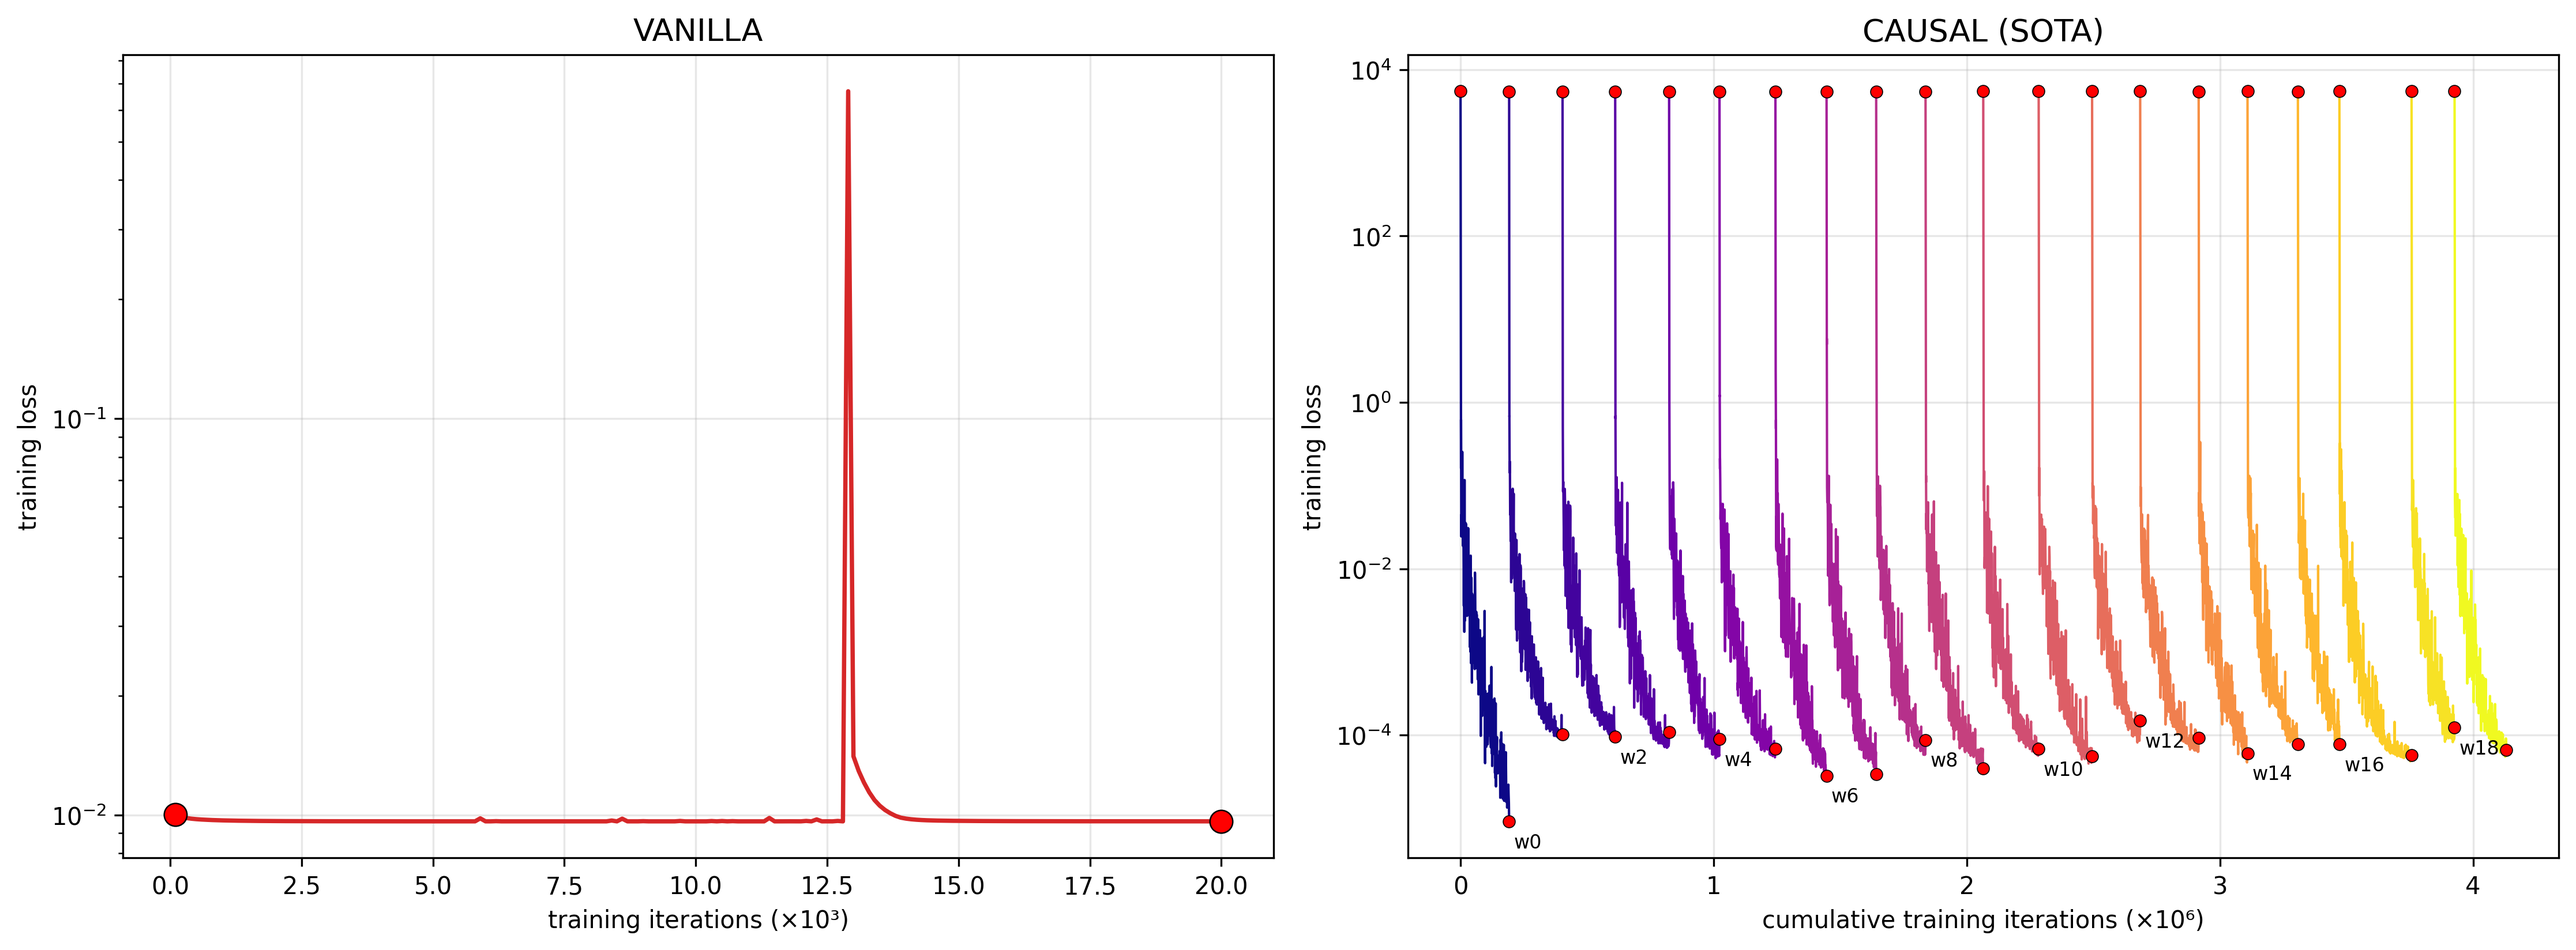
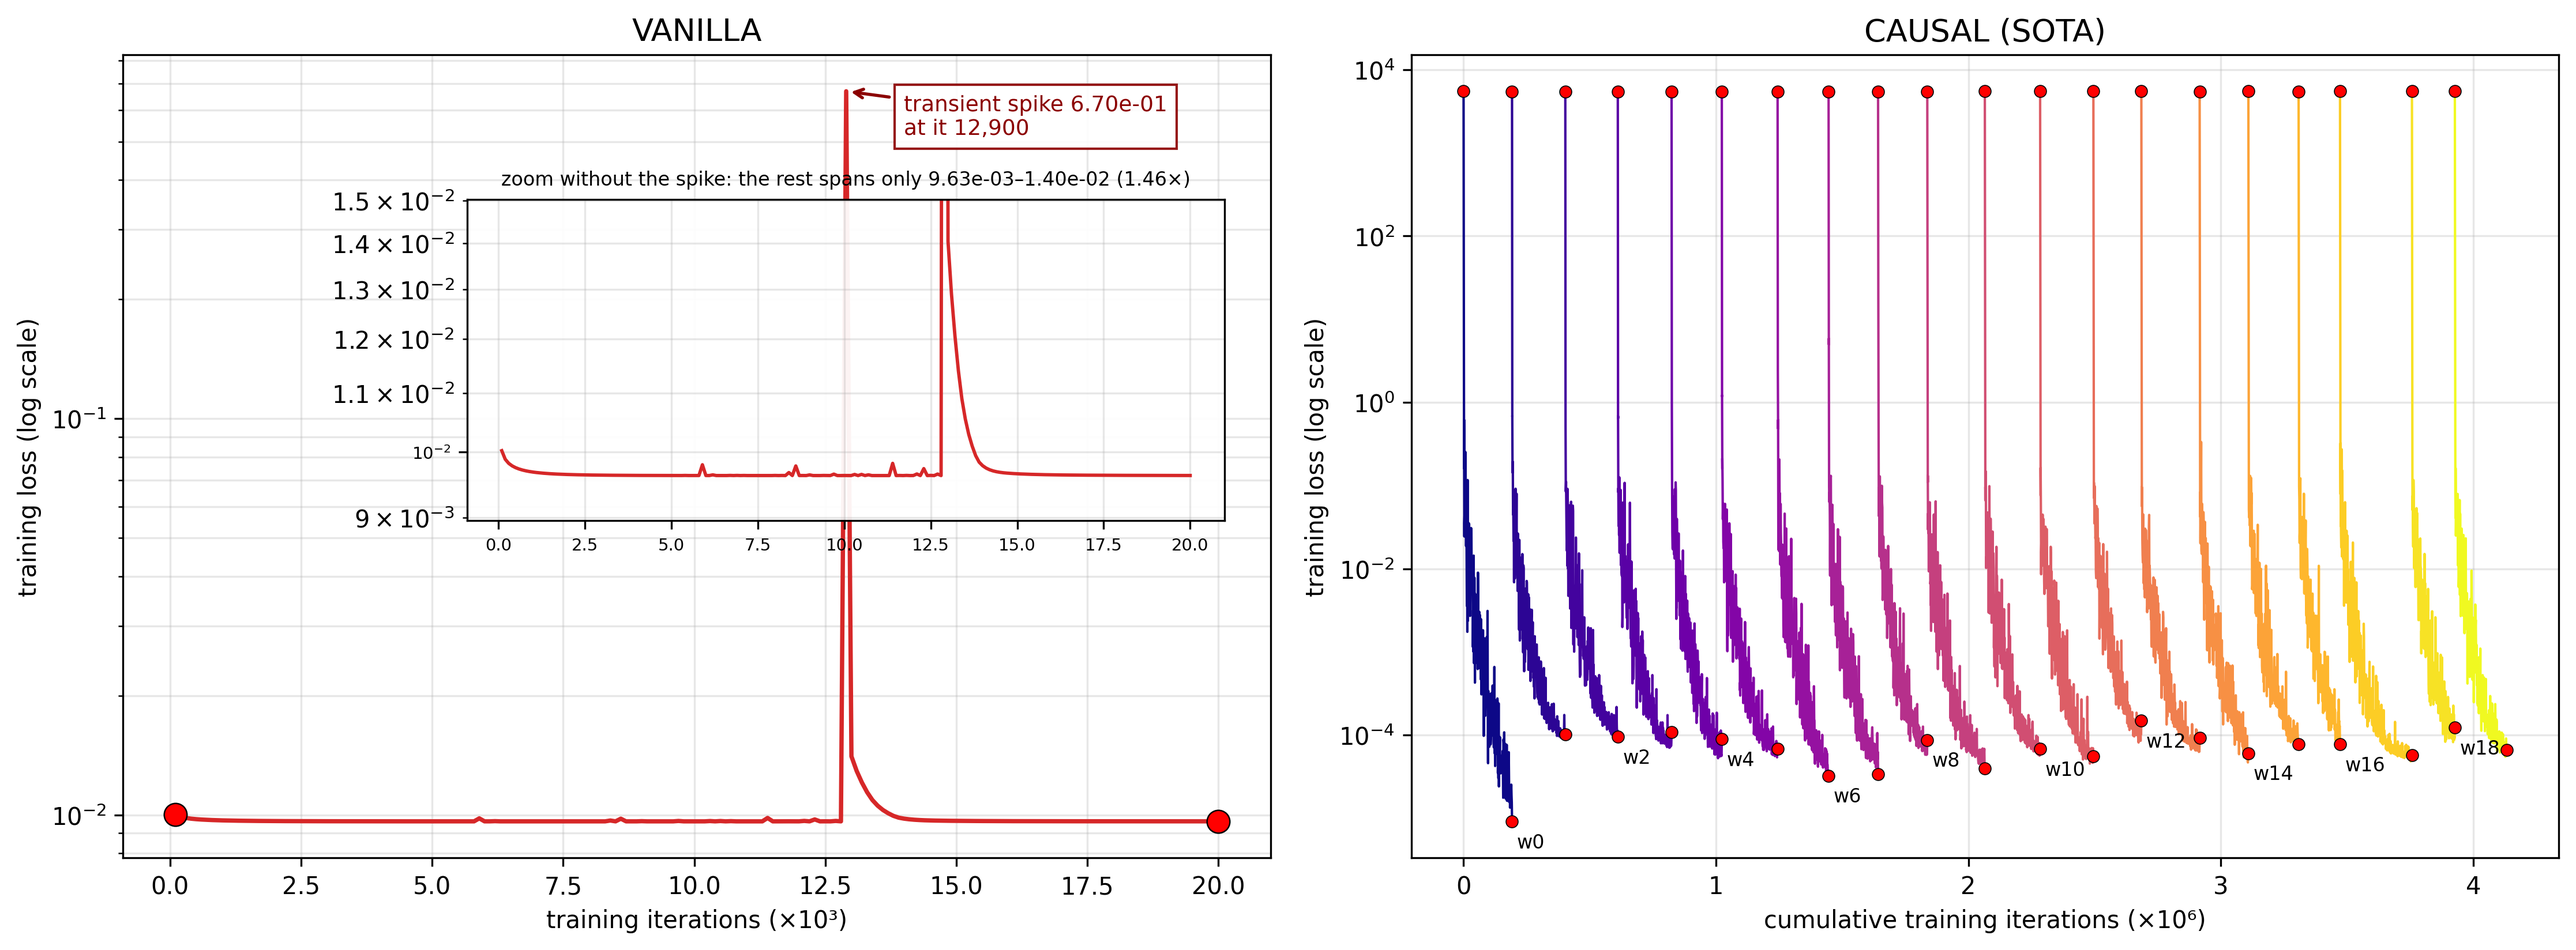
fig32: label the GS transient spike (6.7e-1 at it 12900) and add a zoom inset showing the rest of the vanilla curve spans only 1.46x; both axes marked as log scale

diff --git a/analysis/plot_loss_traces.py b/analysis/plot_loss_traces.py
@@ -39,14 +39,34 @@ def main():
     fig, axes = plt.subplots(1, 2, figsize=(15, 5.6))
 
     ax = axes[0]
-    ax.semilogy(m["step"] / 1e3, m["loss_train_total"], "-", color="tab:red", lw=1.8)
-    ax.scatter([m["step"].iloc[0] / 1e3, m["step"].iloc[-1] / 1e3],
-               [m["loss_train_total"].iloc[0], m["loss_train_total"].iloc[-1]],
-               s=90, color="red", edgecolors="k", linewidths=0.6, zorder=5)
+    st_v = m["step"].values / 1e3
+    L = m["loss_train_total"].values
+    ax.semilogy(st_v, L, "-", color="tab:red", lw=1.8)
+    ax.scatter([st_v[0], st_v[-1]], [L[0], L[-1]], s=90, color="red", edgecolors="k",
+               linewidths=0.6, zorder=5)
     ax.set_xlabel("training iterations (×10³)")
-    ax.set_ylabel("training loss")
+    ax.set_ylabel("training loss (log scale)")
     ax.set_title("VANILLA", fontsize=13)
-    ax.grid(alpha=0.3)
+    ax.grid(alpha=0.3, which="both")
+
+    # a single transient spike can flatten everything else: label it and zoom the rest
+    i_sp = int(np.argmax(L))
+    rest = np.delete(L, i_sp)
+    if L[i_sp] > 5 * np.median(L):
+        ax.annotate(f"transient spike {L[i_sp]:.2e}\nat it {int(m['step'].values[i_sp]):,}",
+                    (st_v[i_sp], L[i_sp]), fontsize=9, color="darkred",
+                    xytext=(24, -18), textcoords="offset points",
+                    arrowprops=dict(arrowstyle="->", color="darkred", lw=1.3),
+                    bbox=dict(facecolor="w", alpha=0.9, edgecolor="darkred"))
+        ins = ax.inset_axes([0.30, 0.42, 0.66, 0.40])
+        ins.semilogy(st_v, L, "-", color="tab:red", lw=1.4)
+        ins.set_ylim(rest.min() * 0.93, rest.max() * 1.07)
+        ins.set_title(f"zoom without the spike: the rest spans only "
+                      f"{rest.min():.2e}–{rest.max():.2e} ({rest.max()/rest.min():.2f}×)",
+                      fontsize=8)
+        ins.tick_params(labelsize=7)
+        ins.grid(alpha=0.3, which="both")
+        ins.patch.set_alpha(0.95)
 
     ax = axes[1]
     w, stp, ls = hist["window"], hist["step"], hist["loss"]
@@ -67,9 +87,9 @@ def main():
                         xytext=(2, -11), textcoords="offset points")
         off += stp[sel].max()
     ax.set_xlabel("cumulative training iterations (×10⁶)")
-    ax.set_ylabel("training loss")
+    ax.set_ylabel("training loss (log scale)")
     ax.set_title("CAUSAL (SOTA)", fontsize=13)
-    ax.grid(alpha=0.3)
+    ax.grid(alpha=0.3, which="both")
 
     fig.tight_layout()
     fig.savefig(f"{OUT}/fig32_loss_traces_{args.case}.png", dpi=args.dpi,

diff --git a/analysis/REPORT.md b/analysis/REPORT.md
@@ -202,7 +202,9 @@ Three results come out of this construction, all measured:
 *Left: vanilla's single loss curve over its whole run. Right: the causal run's true
 error trace — every window chained, red = window edges. The contrast is the mechanism
 in one view: vanilla's loss moves less than a factor of 2 across 20k iterations (KS
-0.45 → 0.28, GS 1.0e-2 → 9.6e-3) because it starts already inside the ghost basin and
+0.45 → 0.28; GS 1.0e-2 → 9.6e-3 — and on GS the whole curve outside one transient
+spike at iteration 12,900 spans just 9.6e-3–1.4e-2, i.e. **1.46×**, see the inset)
+because it starts already inside the ghost basin and
 has nothing left to descend, while each causal window falls **~9.6 (KS) / ~8.8 (GS)
 orders of magnitude** from its re-initialization to its solution — ten (twenty)
 separate deep descents instead of one shallow drift. Note also that every window ends
